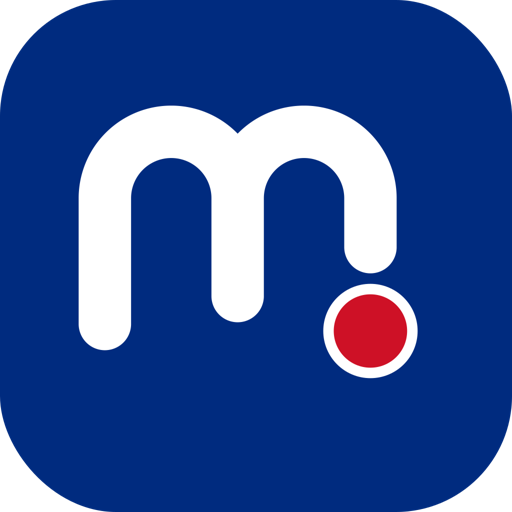
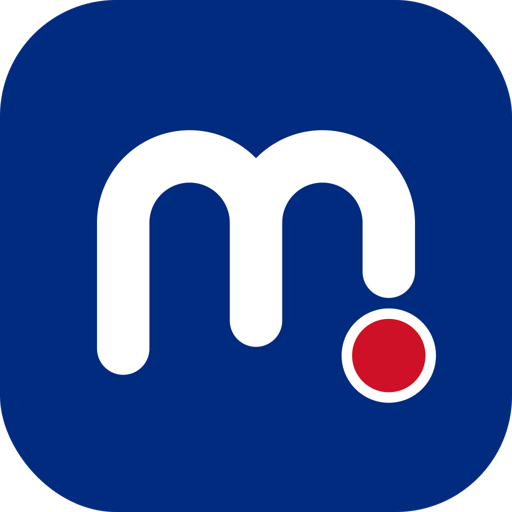
Mana v0.13.1

Changed region(s): [[0.4062, 0.3125, 0.875, 0.8125], [0.125, 0.1875, 0.75, 0.75]]

diff --git a/CHANGELOG.md b/CHANGELOG.md
@@ -3,6 +3,10 @@
 What changed in each Mana release (called Roadwise until 0.13). The APK for each one is on its
 [GitHub release](https://github.com/ycryga/roadwise-releases/releases).
 
+## 0.13.1 — 2026-10-30
+
+- **Neater icon**: the m now sits in the middle of the app icon, with the red dot in the corner.
+
 ## 0.13.0 — 2026-10-30
 
 - **Roadwise is now Mana**: *mana* is Malay for "where". It has a new logo and app icon: a rounded
